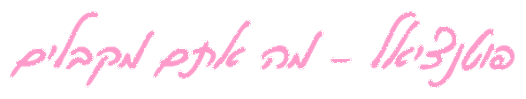
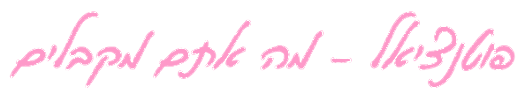
The call page at any screen: the poster grows, the phone gets its own layout
Three things people saw and this fixes.

The poster no longer stops at 1600 units and sits in the middle of a navy
page: the canvas grows with the screen up to 2000, so the landscape reaches
the left edge and the copy reaches the right one, in the artwork's own
proportions — no strip of invented colour beside the photograph, no reading
column pinned against it.

The landscape reaches further right below the copy than the crop allowed,
which left the last letter of "…מוגבלים!" half on rock and half on navy.
That strip is now its own exact crop (scene-foot), stopping where the white
card's own pixels take over.

The line under "תנאי הסף להשתתפות" started 70 units left of where the
artwork puts it — measured against a window that had clipped it. It begins
under the same letter the title does now, at its own size.

The branded type is keyed with a ramp instead of a cliff, so the handwriting
and the display type keep the edges the artwork drew rather than the stepped
ones a hard threshold left behind.

On a phone: the campaign's name is centred as a lockup; the landscape is a
taller band that dissolves into the navy at both edges instead of ending on
a line; and the joining card puts the signpost and the code side by side,
the arrow across at the code, with the words centred underneath and the
button below — the poster's own arrangement, at a thumb's scale.

Checked 320→2560: no horizontal scroll anywhere, no clipped copy, layout
clean at every phone and tablet width.

diff --git a/src/app/[slug]/tourism.css b/src/app/[slug]/tourism.css
@@ -91,7 +91,12 @@
 
 .tl-canvas {
   position: relative;
-  width: min(100%, 1600px);
+  /* The poster grows with the screen instead of stopping at 1600 and leaving
+     bars: every measure below is a share of this width, so the composition
+     is the artwork's at any size. Past 2000 it stops growing and keeps the
+     left edge, where the landscape is — the navy field is what widens, on
+     the right, where the artwork has navy anyway. */
+  width: min(100%, 2000px);
   margin: 0 auto;
   container-type: inline-size;
 }
@@ -131,6 +136,17 @@
   /* The landscape. It is cut where the copy begins, and the fade the artwork
      paints from there into the navy field is finished here, so the cut has
      no edge of its own. */
+  /* The foot of the landscape, past the copy column and short of the card.
+     An exact crop, so it needs no fade of its own. */
+  img.tl-scene-foot {
+    left: 42.625%;
+    top: 65%;
+    width: 10.5%;
+    height: 35%;
+    object-fit: cover;
+    z-index: 1;
+  }
+
   img.tl-scene {
     left: 0;
     top: 0;
@@ -143,8 +159,9 @@
 
   /* The artwork's fade does not stop where the crop does — it keeps dimming
      into the navy field for another hundred pixels. Continuing it here is
-     what stops the crop from reading as a straight cut down the page. */
-  .tl-canvas::after {
+     what stops the crop from reading as a straight cut down the page. It is
+     ::before so the strip of landscape below can paint over it. */
+  .tl-canvas::before {
     content: '';
     position: absolute;
     left: 42.625%;
@@ -249,11 +266,13 @@
     z-index: 2;
   }
 
+  /* The line under the pink title starts where the title starts, not where
+     the paragraph above it ends. */
   .tl-sub {
-    right: 8.875%;
+    right: 4.5%;
     top: 48.5625%;
-    width: 45%;
-    font-size: 1.36cqw;
+    width: 50%;
+    font-size: 1.5cqw;
     line-height: 1.875cqw;
     color: var(--tl-text-dim);
   }
@@ -390,48 +409,10 @@
   }
 }
 
-/* Wider than the canvas, the composition stays 1600 units — but the
-   landscape must still reach the edge of the screen, or the poster reads as
-   a picture pasted in the middle of a navy page. The strip beside it carries
-   the photograph's own left column: sky, then the valley, then the rock, in
-   the colours measured off the artwork every hundred pixels. */
-@media (min-width: 1601px) {
-  /* The photograph's own left edge dissolves into that strip, so the join
-     between the detail and the colour has no line of its own. */
-  img.tl-scene {
-    -webkit-mask-image: linear-gradient(to right, transparent, #000 3.5%);
-    mask-image: linear-gradient(to right, transparent, #000 3.5%);
-  }
-
-  .tl-canvas::before {
-    content: '';
-    position: absolute;
-    right: 100%;
-    top: 0;
-    width: 50vw;
-    height: 100%;
-    background: linear-gradient(
-      to bottom,
-      #9da8b3 0%,
-      #9daab5 6.25%,
-      #92a4b2 12.5%,
-      #648197 18.75%,
-      #5d6762 25%,
-      #786a5b 31.25%,
-      #a68c7d 37.5%,
-      #987a69 43.75%,
-      #8c6c59 50%,
-      #ad8e79 56.25%,
-      #9a806c 62.5%,
-      #9e816e 68.75%,
-      #b19f92 75%,
-      #b9aca1 81.25%,
-      #a99d94 87.5%,
-      #b1a7a1 93.75%,
-      #bb899c 100%
-    );
-    z-index: 1;
-    pointer-events: none;
+@media (min-width: 2001px) {
+  .tl-canvas {
+    margin-left: 0;
+    margin-right: auto;
   }
 }
 
@@ -455,10 +436,10 @@
     align-self: stretch;
     /* Tall enough to be the page's own floor, and to hold the button that
        follows the reader — cyan on pink, as the poster has it. */
-    height: calc(150px + env(safe-area-inset-bottom));
-    margin: 22px -20px 0;
+    height: calc(132px + env(safe-area-inset-bottom));
+    margin: 12px -20px 0;
     background: var(--tl-pink);
-    clip-path: polygon(0 100%, 100% 42%, 100% 100%);
+    clip-path: polygon(0 100%, 100% 34%, 100% 100%);
   }
 
   img.tl-logo {
@@ -475,26 +456,38 @@
     width: min(25%, 108px);
   }
 
+  /* The campaign's name is the one block that reads as a lockup rather than
+     as a line of text: it is centred on the screen, the rest is not. */
   .tl-kicker {
     margin: 0;
     width: 100%;
+    align-self: center;
   }
 
   .tl-headline {
     margin: -2px 0 0;
     width: min(84%, 400px);
+    align-self: center;
   }
 
   /* The landscape as a band under the campaign's name, framed on the person
      and cropped clear of the logo standing in its sky. */
+  img.tl-scene-foot {
+    display: none;
+  }
+
+  /* The band dissolves into the navy at both edges instead of ending on a
+     line, so the picture sits in the page rather than on top of it. */
   img.tl-scene {
     align-self: stretch;
     width: calc(100% + 40px);
-    height: 205px;
-    margin: 8px -20px 4px;
+    height: 248px;
+    margin: 10px -20px 6px;
     max-width: none;
     object-fit: cover;
     object-position: 50% 56%;
+    -webkit-mask-image: linear-gradient(to bottom, transparent 0, #000 13%, #000 84%, transparent 100%);
+    mask-image: linear-gradient(to bottom, transparent 0, #000 13%, #000 84%, transparent 100%);
   }
 
   .tl-lede,
@@ -558,30 +551,40 @@
     margin: 8px 0 0;
   }
 
+  /* The joining area on a phone: the signpost and the code stand side by
+     side on the card's first row, the arrow pointing across at the code, and
+     the words sit centred underneath them. The button follows. */
   .tl-join {
+    position: relative;
     display: flex;
     flex-direction: column;
     gap: 16px;
-    margin-top: 2px;
+    margin-top: 20px;
   }
 
   .tl-join-card {
-    /* The copy takes the free column on the right; the code keeps its own
-       width on the left, where "סירקו את הברקוד משמאל" points. */
+    /* Row one: the sign on the right, the code on the left, where
+       "סירקו את הברקוד משמאל" points. Row two: the words, under both. */
     grid-template-columns: 1fr auto;
+    order: -1;
+    align-items: center;
     border-radius: 18px;
-    gap: 16px;
-    padding: 16px 18px;
+    column-gap: 12px;
+    row-gap: 14px;
+    padding: 18px;
     box-shadow: 0 10px 26px rgba(0, 0, 0, 0.3);
   }
 
   .tl-qr {
     grid-column: 2;
-    width: 88px;
+    grid-row: 1;
+    width: 104px;
   }
 
   .tl-join-copy {
-    grid-column: 1;
+    grid-column: 1 / -1;
+    grid-row: 2;
+    text-align: center;
   }
 
   .tl-join-lines {
@@ -600,17 +603,17 @@
   /* The signpost keeps its place in the design; the words under it are the
      button, at a size a thumb can hit. */
   .tl-cta {
-    display: flex;
-    flex-direction: column;
-    align-items: center;
-    gap: 10px;
+    display: block;
     text-decoration: none;
   }
 
-  /* The signpost says the same three words as the button below it; on a
-     phone that reads as a mistake, so the button carries them alone. */
   .tl-cta > img {
-    display: none;
+    position: absolute;
+    top: 10px;
+    right: 18px;
+    width: min(40%, 148px);
+    z-index: 2;
+    filter: drop-shadow(-2px 5px 8px rgba(0, 0, 0, 0.28));
   }
 
   .tl-cta-label {

diff --git a/scripts/design/extract-tourism-assets.ts b/scripts/design/extract-tourism-assets.ts
@@ -42,6 +42,12 @@ export const CROPS: Box[] = [
   // The closing script's own crop starts further left, at 653, and is drawn
   // on top — the two show the same pixels there, so the overlap is invisible.
   { name: 'scene', left: 0, top: 0, right: 682, bottom: 1600 },
+  // Below the copy the landscape reaches much further right — to x≈850 at the
+  // closing line — and cutting it at 682 left the last letter of that line
+  // half on rock and half on navy. This is the rest of it, an exact crop. The
+  // white card and the closing line are inside it, and the page draws both
+  // over their own pixels, in the same places.
+  { name: 'scene-foot', left: 682, top: 1040, right: 850, bottom: 1600 },
   // The production company's mark, white on navy, top right.
   { name: 'producer-logo', left: 1296, top: 54, right: 1512, bottom: 166, keyed: true },
   // Handwritten and display type: no font ships these. The boxes stop
@@ -110,9 +116,12 @@ async function keyOut(box: Box) {
     // How much of the pixel is not explained by the ink: colour that moved
     // somewhere else is background, not a soft edge.
     const off = Math.sqrt([0, 1, 2].reduce((a, c) => a + (p[c] - t * dir[c]) ** 2, 0))
-    // Below a twentieth of the ink there is no letter, only compression and
-    // the poster's vignette; that floor is cut away and the rest restretched.
-    const a = off > 20 ? 0 : Math.max(0, Math.min(1, (t - 0.05) / 0.95))
+    // Colour that moved somewhere other than towards the ink is background,
+    // but the judgement is a ramp rather than a cliff: a hard cut leaves the
+    // letters with stepped, crawling edges where the JPEG blurred them.
+    const along = Math.max(0, Math.min(1, (t - 0.04) / 0.94))
+    const belongs = Math.max(0, Math.min(1, (26 - off) / 14))
+    const a = along * belongs
     rgba[i * 4] = ink[0]
     rgba[i * 4 + 1] = ink[1]
     rgba[i * 4 + 2] = ink[2]

diff --git a/src/app/[slug]/page.tsx b/src/app/[slug]/page.tsx
@@ -115,6 +115,7 @@ export default async function TourismCallPage({
             header above. It sits here in the source so a phone reads the
             campaign's name before it meets the picture. */}
         <img src="/tourism-2026/scene.webp" alt="" className="tl-scene" width={682} height={1600} fetchPriority="high" />
+        <img src="/tourism-2026/scene-foot.webp" alt="" className="tl-scene-foot" width={168} height={560} loading="lazy" />
 
         <p className="tl-lede">{LEDE}</p>
         <p className="tl-body">
